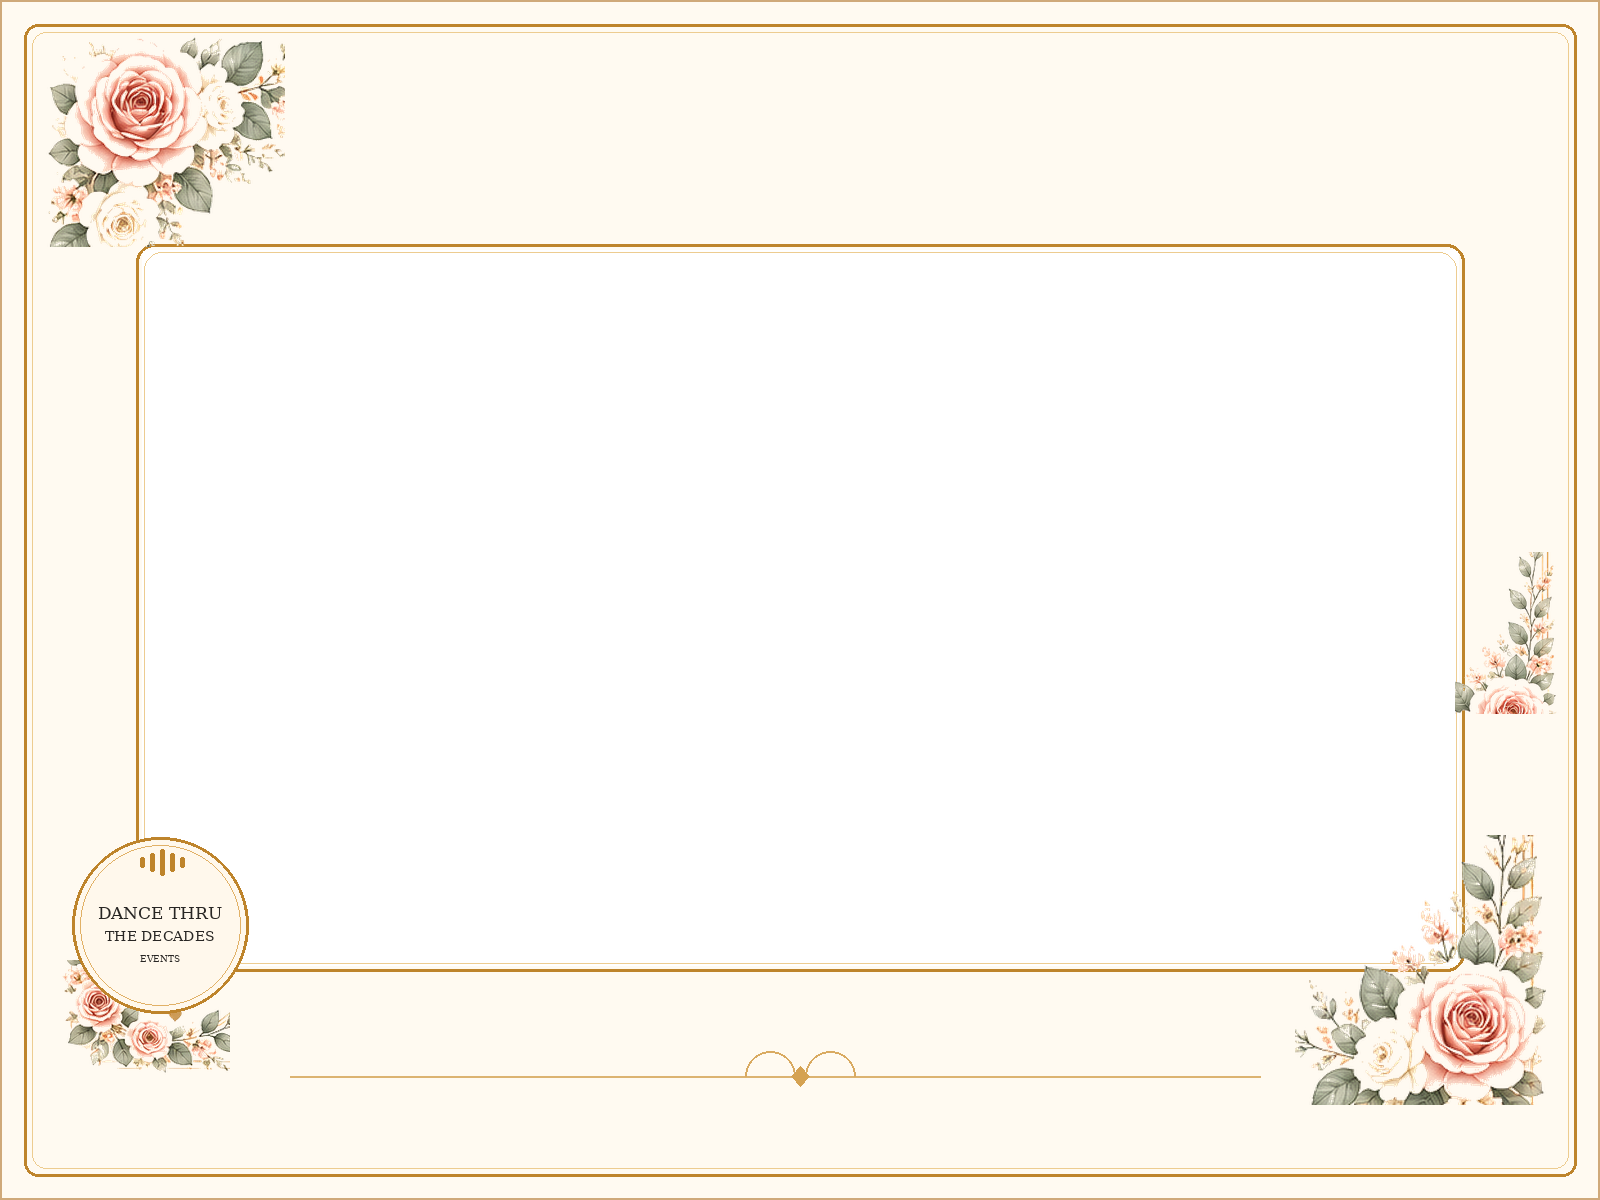
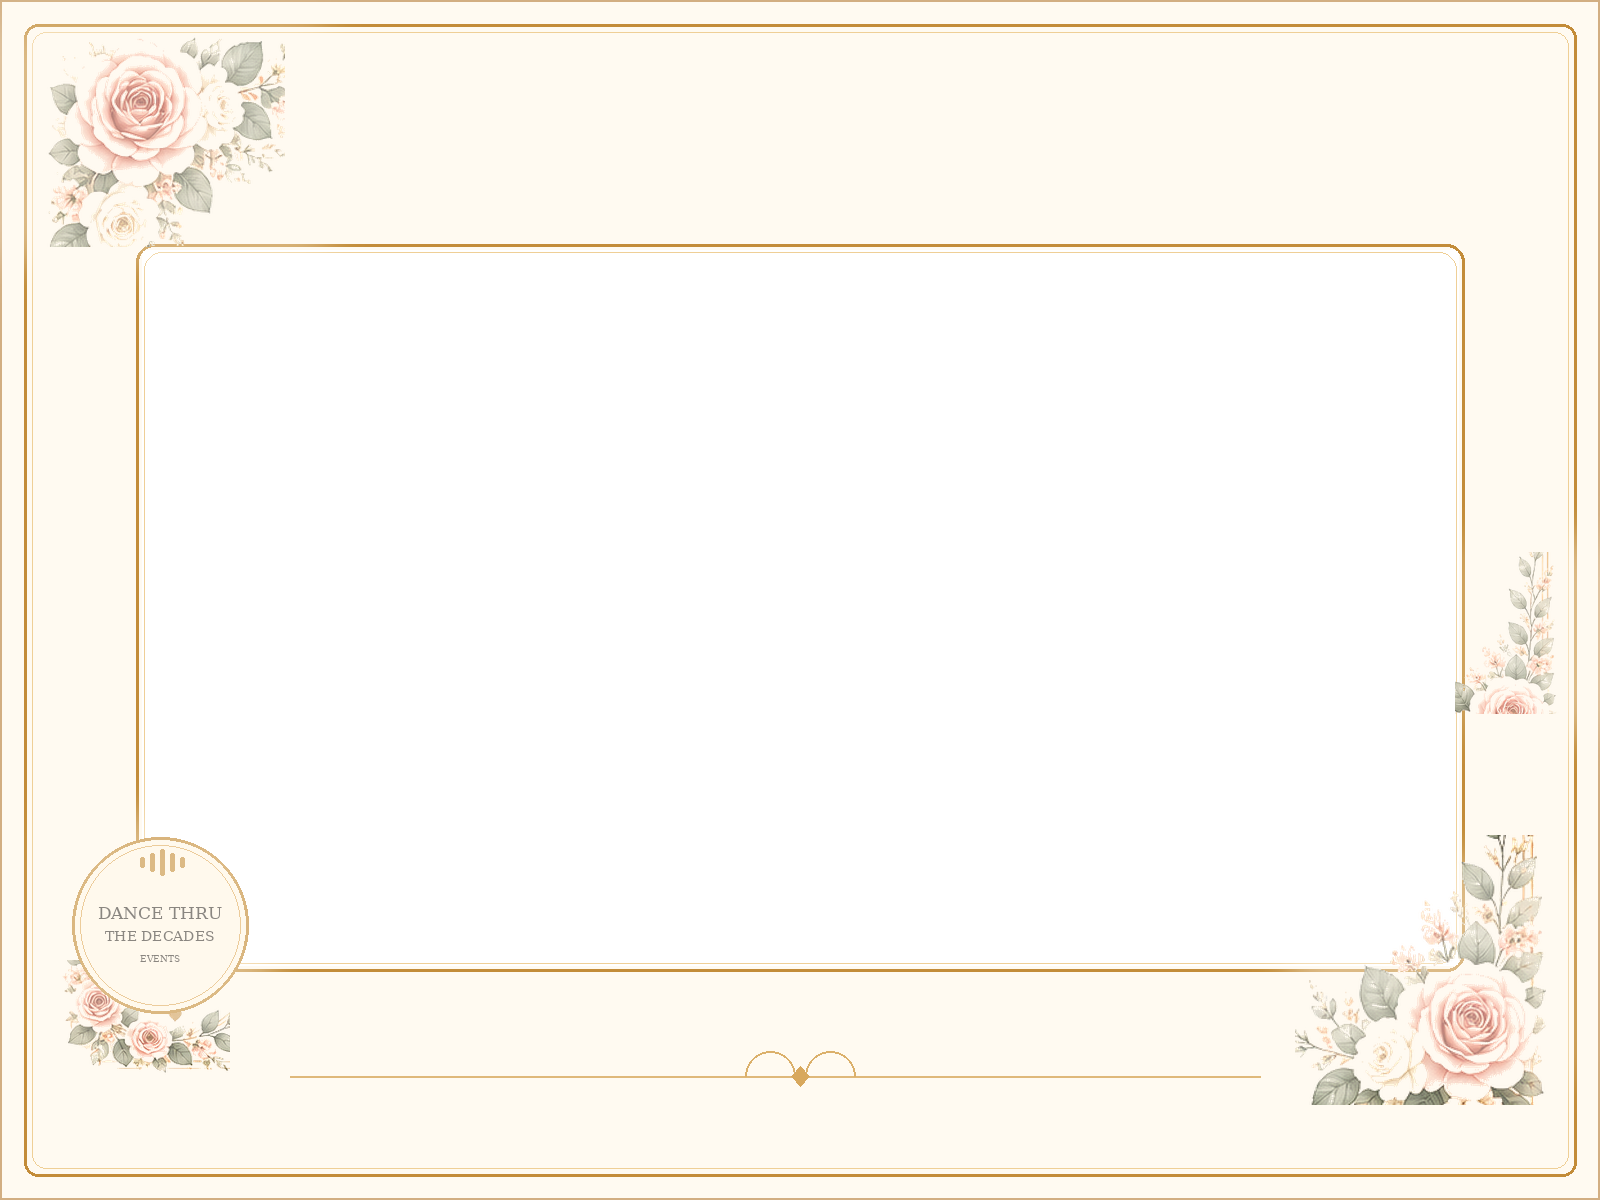
Git summary: Polish wedding overlay template assets and script typography.
Git details:
- Updated the actual wedding overlay template assets for softer floral balance.
- Reduced visual weight on the logo badge and floral clusters.
- Improved script/calligraphy font fallback for wedding names.
- Tuned title, thank-you text, and colour handling in the overlay renderer.
- Kept the existing wedding overlay library and low-resolution photo handling intact.

diff --git a/includes/photo-uploads.php b/includes/photo-uploads.php
@@ -661,6 +661,9 @@ function photo_wedding_font_path($purpose = 'regular') {
 
     if ($purpose === 'script') {
         $fileCandidates = [
+            '/usr/share/fonts/opentype/urw-base35/Z003-MediumItalic.otf',
+            '/usr/share/fonts/type1/urw-base35/Z003-MediumItalic.t1',
+            '/usr/share/fonts/X11/Type1/Z003-MediumItalic.pfb',
             '/usr/share/fonts/opentype/lobstertwo/LobsterTwo-Italic.otf',
             '/usr/share/fonts/opentype/lobster/lobster.otf',
             '/usr/share/fonts/opentype/lobstertwo/LobsterTwo-Regular.otf',
@@ -674,13 +677,15 @@ function photo_wedding_font_path($purpose = 'regular') {
         // ImageMagick on shared hosting often exposes fonts by IM name rather than path.
         // Prefer genuine script/calligraphy options before falling back to serif italic.
         $fontNameCandidates = [
+            'Z003-MediumItalic',
+            'Z003',
+            'URW-Chancery-L-Medium-Italic',
             'LobsterTwo-Italic',
             'LobsterTwo',
             'GreatVibes-Regular',
             'Great-Vibes',
             'DancingScript-Regular',
             'Dancing-Script',
-            'URW-Chancery-L-Medium-Italic',
             'Times-Italic',
             'FreeSerif-Italic',
             'DejaVu-Serif-Italic',
@@ -727,7 +732,7 @@ function photo_wedding_font_path($purpose = 'regular') {
     }
 
     if ($purpose === 'script') {
-        return 'Times-Italic';
+        return 'Z003';
     }
     return photo_imagick_font_path($purpose === 'bold');
 }
@@ -823,10 +828,10 @@ function photo_render_wedding_framed_image($sourcePath, $destPath, $event, $orie
         $fontRegular = photo_wedding_font_path('regular');
         $fontBold = photo_wedding_font_path('bold');
         $fontScript = photo_wedding_font_path('script');
-        $gold = '#b47a26';
+        $gold = '#b77d2b';
         $ink = '#4b403a';
-        $script = '#a95454';
-        $titleGold = '#b9812a';
+        $script = '#a65f5d';
+        $titleGold = '#b67d25';
 
         $eventName = trim((string)($event['photo_overlay_title'] ?? ''));
         if ($eventName === '') {
@@ -842,17 +847,17 @@ function photo_render_wedding_framed_image($sourcePath, $destPath, $event, $orie
 
         if ($landscape) {
             photo_imagick_draw_text($canvas, 'CELEBRATING THE WEDDING OF', 800, 118, $fontRegular, 24, $gold, null, 0, 900, Imagick::ALIGN_CENTER);
-            $titleSize = photo_imagick_fit_font_size($canvas, $eventName, $fontScript, 96, 980, 46);
-            photo_imagick_draw_text($canvas, $eventName, 800, 200, $fontScript, $titleSize, $titleGold, null, 0, 1030, Imagick::ALIGN_CENTER);
-            photo_imagick_draw_text($canvas, $thankYou, 790, 1032, $fontScript, 42, $script, null, 0, 760, Imagick::ALIGN_CENTER);
+            $titleSize = photo_imagick_fit_font_size($canvas, $eventName, $fontScript, 104, 1030, 48);
+            photo_imagick_draw_text($canvas, $eventName, 800, 204, $fontScript, $titleSize, $titleGold, null, 0, 1030, Imagick::ALIGN_CENTER);
+            photo_imagick_draw_text($canvas, $thankYou, 790, 1026, $fontScript, 38, $script, null, 0, 760, Imagick::ALIGN_CENTER);
             $details = trim(($dateLine !== '' ? $dateLine : 'DATE') . ($venueLine !== '' ? '   |   ' . strtoupper($venueLine) : '   |   VENUE'));
             photo_imagick_draw_text($canvas, $details, 860, 1098, $fontRegular, 21, $ink, null, 0, 730, Imagick::ALIGN_CENTER);
             photo_imagick_draw_text($canvas, $siteUrlText, 860, 1152, $fontBold, 22, $gold, null, 0, 760, Imagick::ALIGN_CENTER);
         } else {
             photo_imagick_draw_text($canvas, 'CELEBRATING THE WEDDING OF', 540, 118, $fontRegular, 20, $gold, null, 0, 690, Imagick::ALIGN_CENTER);
-            $titleSize = photo_imagick_fit_font_size($canvas, $eventName, $fontScript, 78, 700, 38);
-            photo_imagick_draw_text($canvas, $eventName, 540, 198, $fontScript, $titleSize, $titleGold, null, 0, 760, Imagick::ALIGN_CENTER);
-            photo_imagick_draw_text($canvas, $thankYou, 620, 1162, $fontScript, 34, $script, null, 0, 560, Imagick::ALIGN_CENTER);
+            $titleSize = photo_imagick_fit_font_size($canvas, $eventName, $fontScript, 78, 730, 36);
+            photo_imagick_draw_text($canvas, $eventName, 540, 194, $fontScript, $titleSize, $titleGold, null, 0, 760, Imagick::ALIGN_CENTER);
+            photo_imagick_draw_text($canvas, $thankYou, 620, 1152, $fontScript, 30, $script, null, 0, 560, Imagick::ALIGN_CENTER);
             $details = trim(($dateLine !== '' ? $dateLine : 'DATE') . ($venueLine !== '' ? '   |   ' . strtoupper($venueLine) : '   |   VENUE'));
             photo_imagick_draw_text($canvas, $details, 610, 1242, $fontRegular, 16, $ink, null, 0, 530, Imagick::ALIGN_CENTER);
             photo_imagick_draw_text($canvas, $siteUrlText, 610, 1300, $fontBold, 18, $gold, null, 0, 560, Imagick::ALIGN_CENTER);
